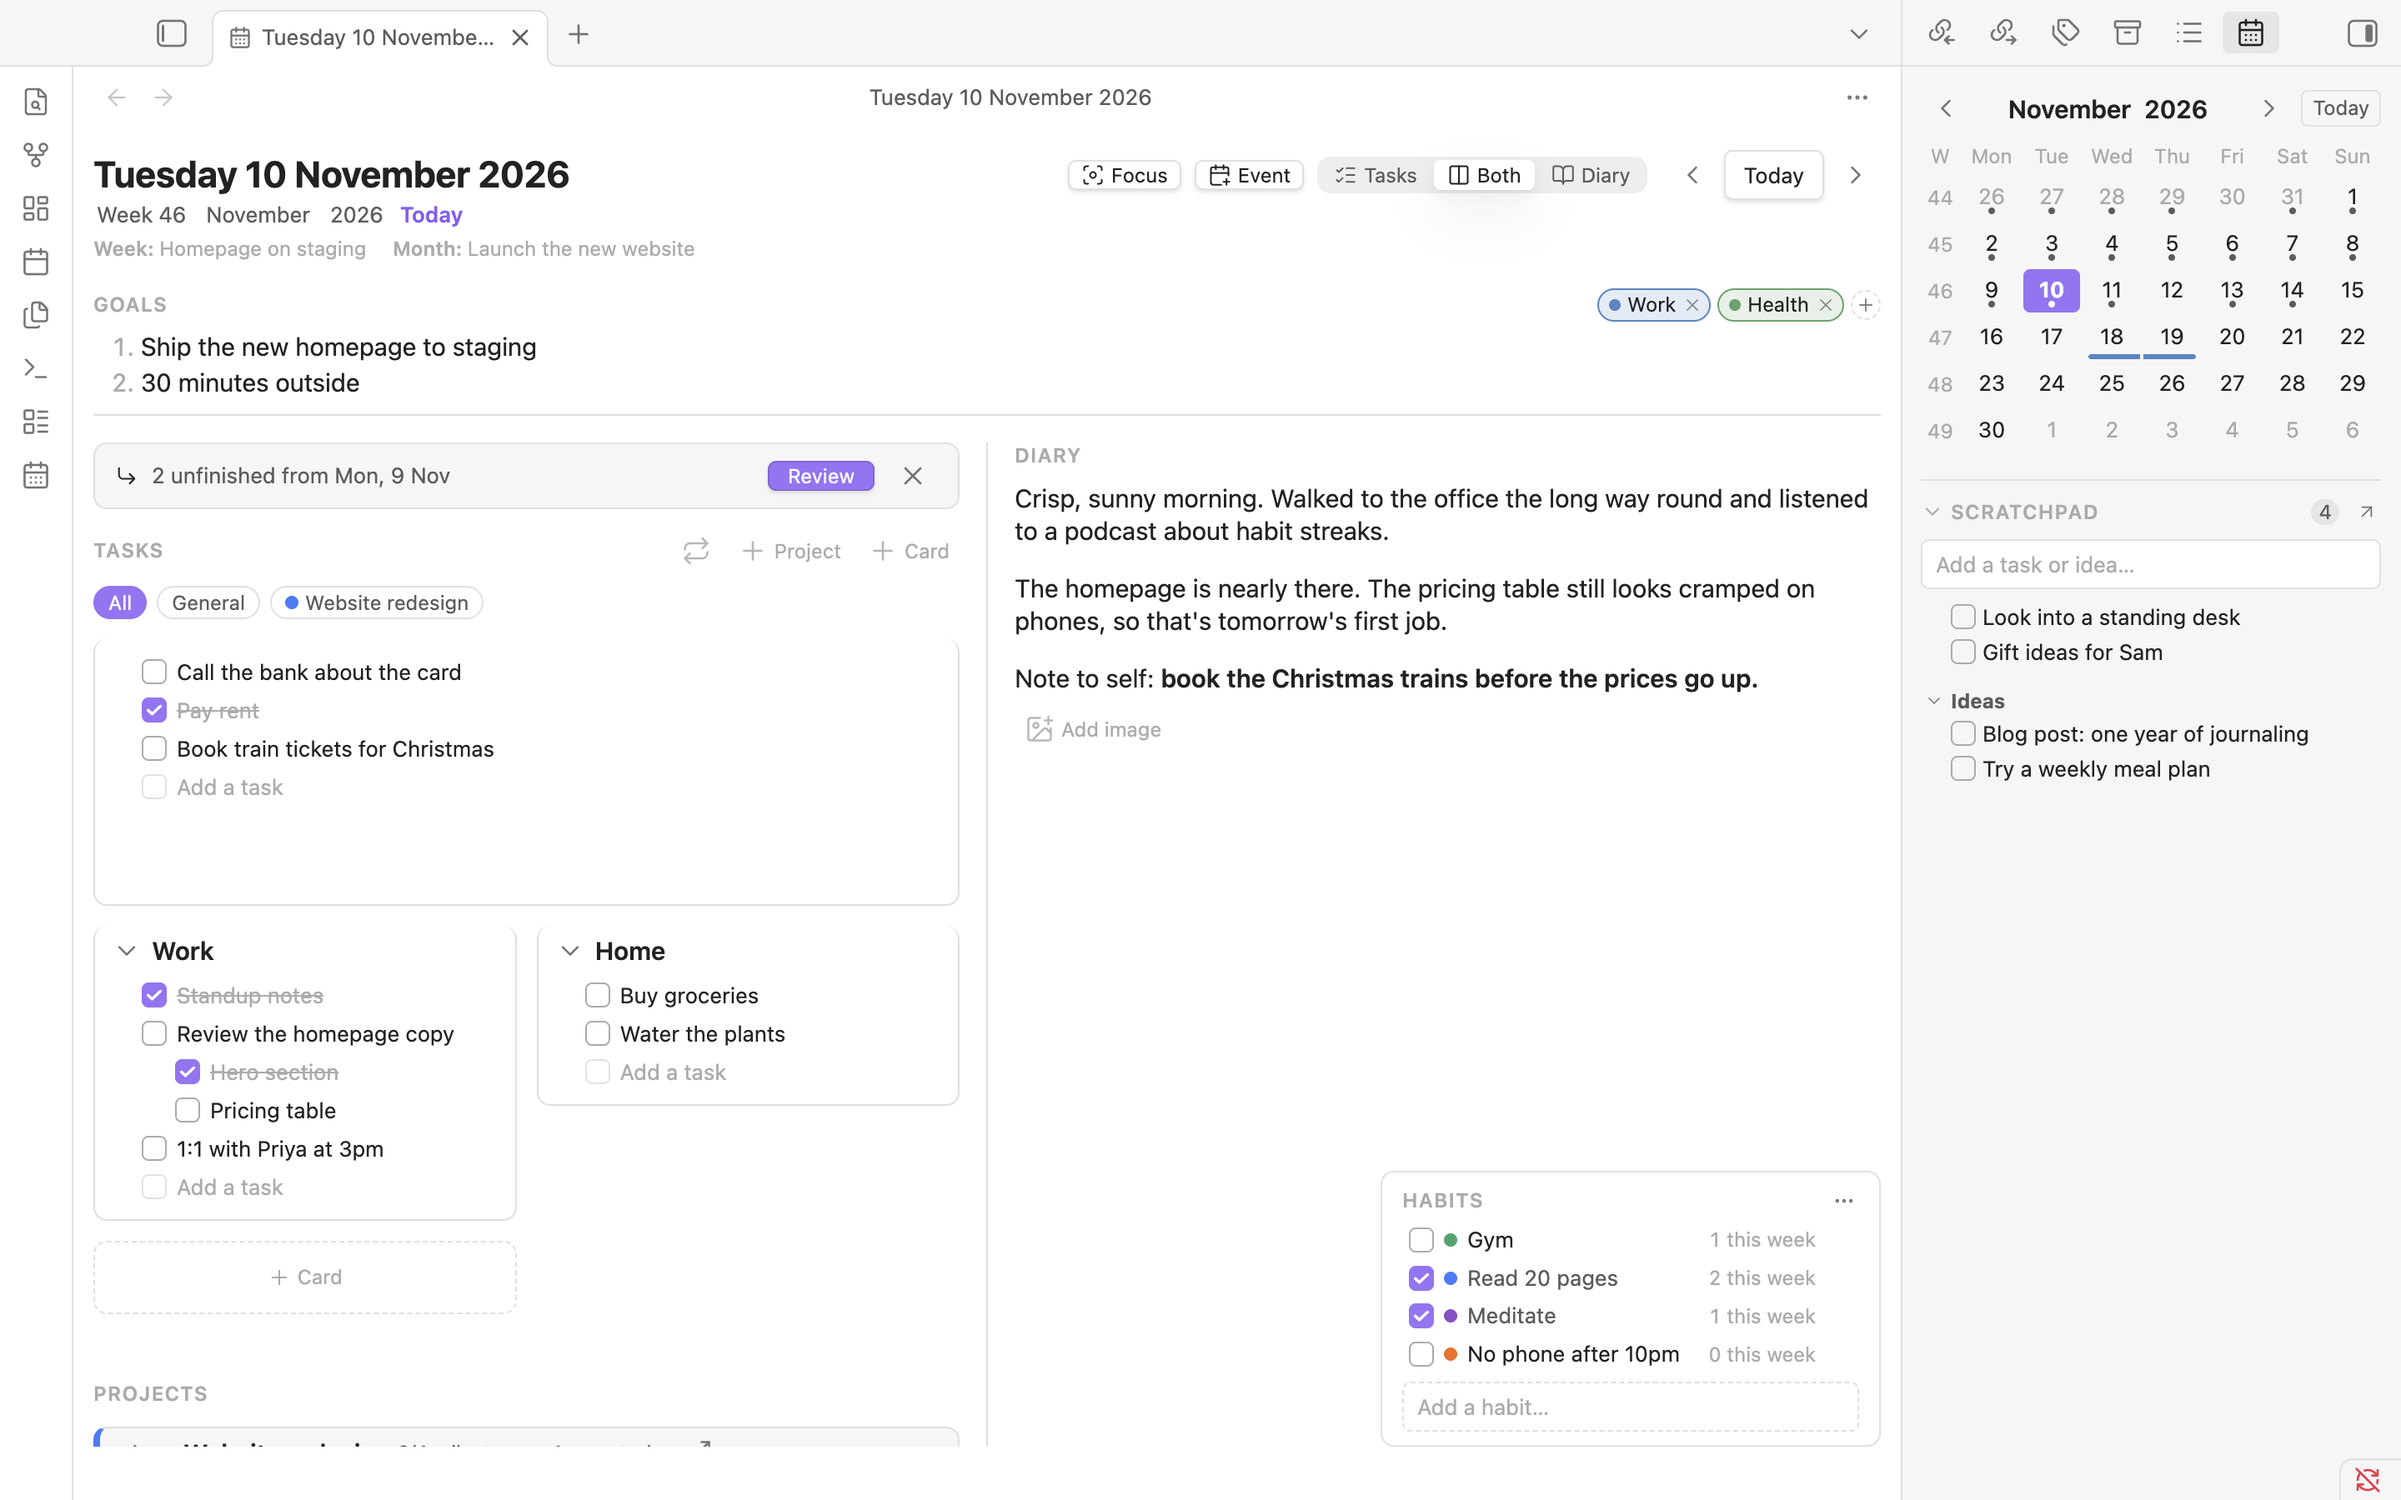
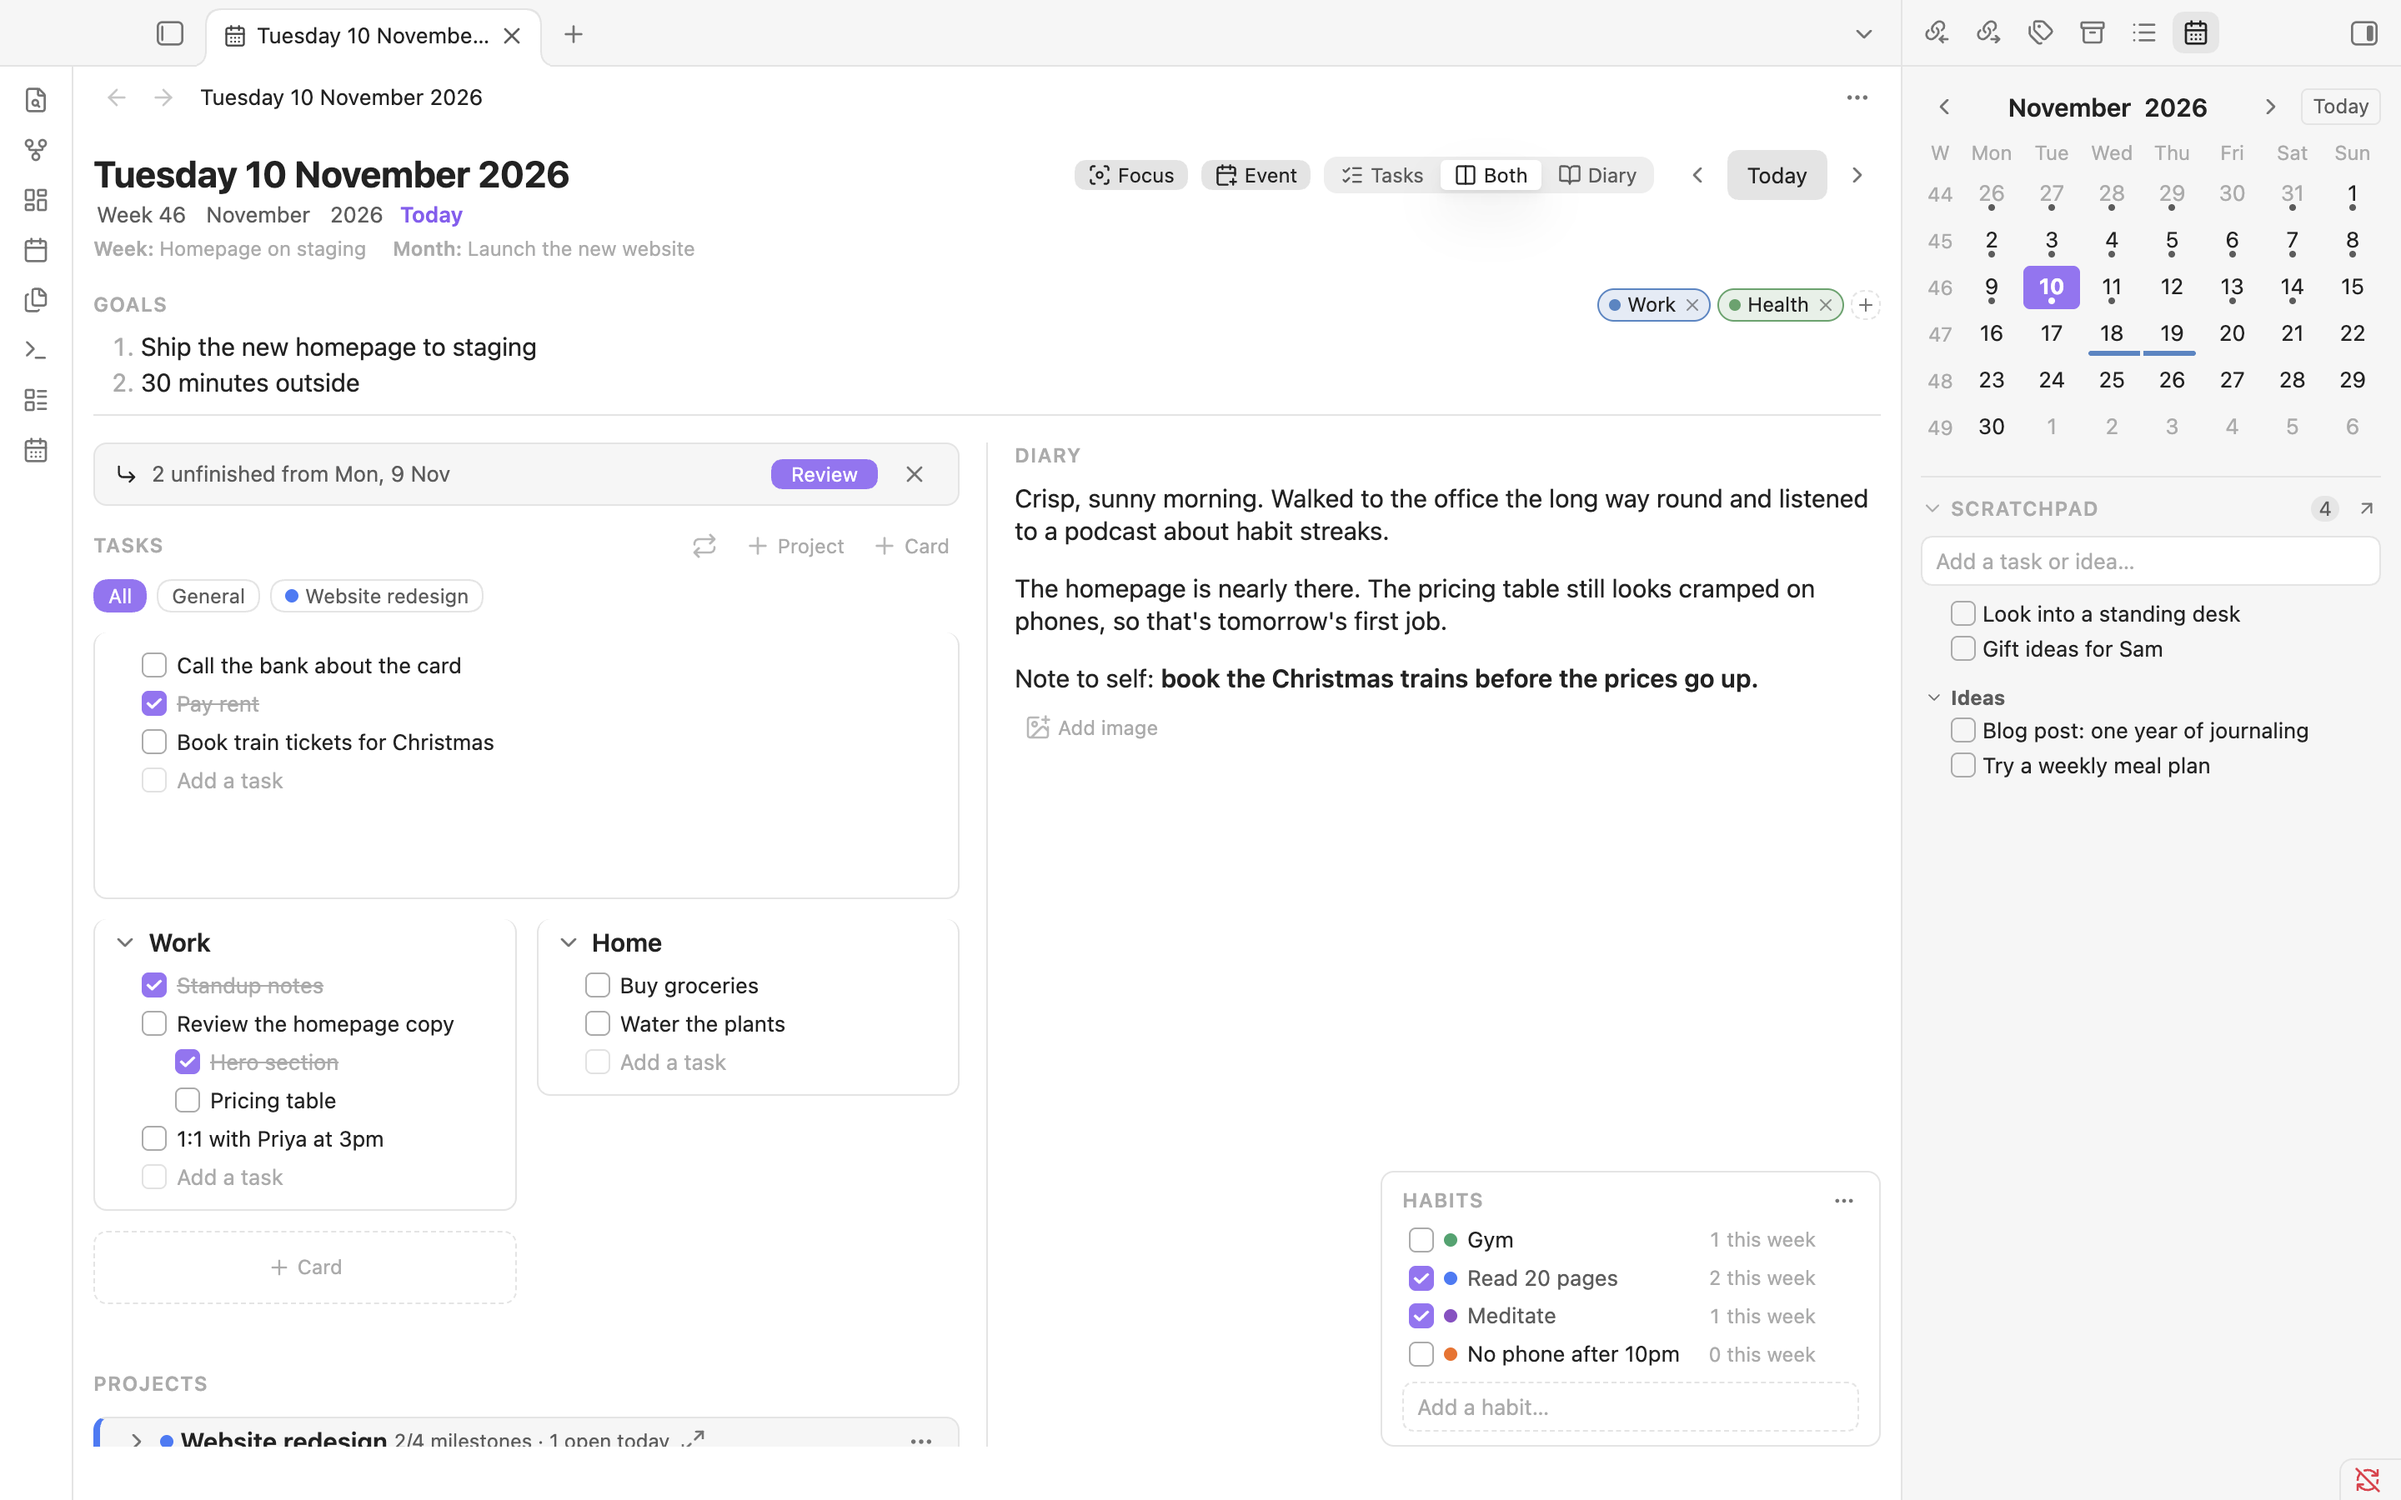
Keep the title above the page in step with the tab
Obsidian writes the view header title once, when the tab opens. Daybook
moves one tab between days, weeks, months and years, so the title stayed
on the first page. Update it whenever the page changes, and retake the
README screenshots and GIFs with the right titles.

diff --git a/src/ui/daybookView.ts b/src/ui/daybookView.ts
@@ -141,6 +141,14 @@ export class DaybookView extends ItemView {
 		this.contentEl.empty();
 	}
 
+	/**
+	 * Obsidian writes the title above the page once, when the tab opens; this
+	 * tab moves between days, weeks and months, so keep it in step with the tab.
+	 */
+	private syncHeaderTitle(): void {
+		this.containerEl.querySelector(".view-header-title")?.setText(this.getDisplayText());
+	}
+
 	/** Moves this view to another date/level, recording it in history. */
 	private navigate(level: ZoomLevel, date: DateKey): void {
 		void this.leaf.setViewState({ type: VIEW_TYPE_DAYBOOK, active: true, state: { level, date } }, { history: true });
@@ -213,6 +221,7 @@ export class DaybookView extends ItemView {
 		el.toggleClass("is-fill", this.level === "day" || this.level === "week");
 		if (this.plugin.focusMode && this.level !== "day") this.plugin.exitFocus();
 		this.renderHeader(el);
+		this.syncHeaderTitle();
 		this.applyFocus();
 		const body = el.createDiv({ cls: "daybook-body" });
 
